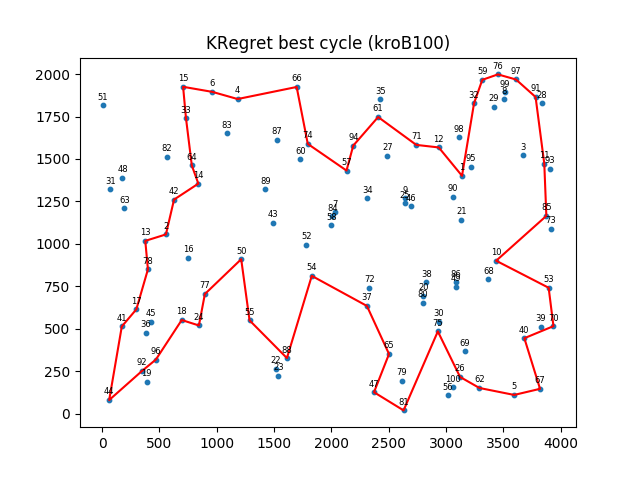
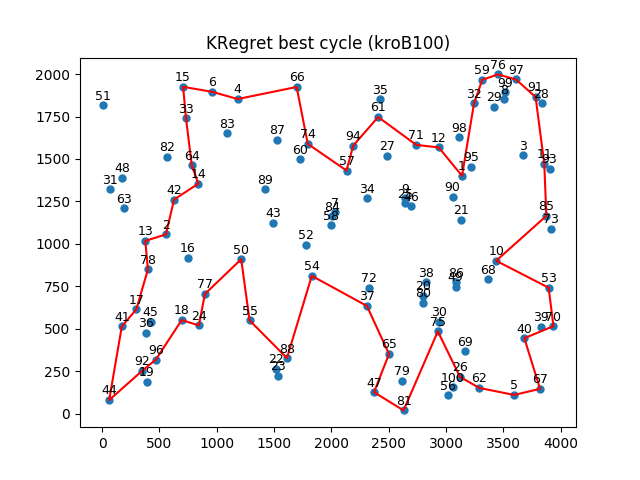
Replot

diff --git a/aem/utils/plot_util.py b/aem/utils/plot_util.py
@@ -12,9 +12,9 @@ class PlotUtil:
         all_x, all_y = zip(*list(coords.values()))
         plt.figure()
         plt.title(f"{res.method_classname} best cycle ({instance[8:-4]})")
-        plt.scatter(all_x, all_y, s=10)
+        plt.scatter(all_x, all_y, s=25)
         for i, (x,y) in enumerate(zip(all_x, all_y)):
-            plt.annotate(f"{i+1}", (x,y), textcoords="offset points", xytext=(0,4), ha="center", fontsize=6)
+            plt.annotate(f"{i+1}", (x,y), textcoords="offset points", xytext=(0,4), ha="center", fontsize=9)
         plt.plot(cycle_coords_x + [cycle_coords_x[0]], cycle_coords_y + [cycle_coords_y[0]], c='r')
         plt.savefig(f"plots/{res.method_classname}-{instance[8:-4]}-best.png")
         plt.close()
